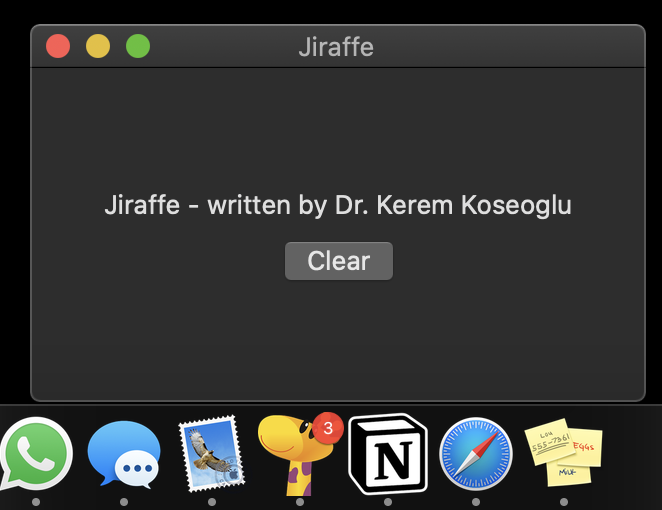
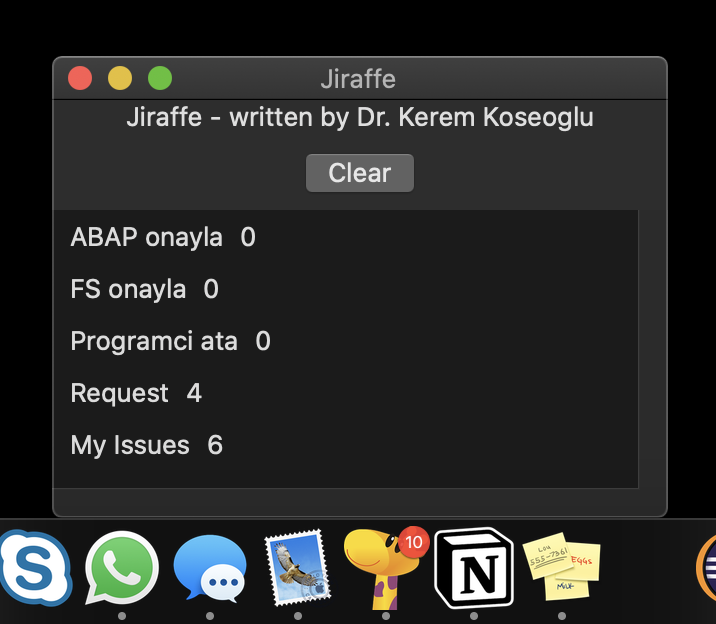
Filter list on GUI

Changed region(s): [[0.0, 0.0294, 1.0, 1.0], [0.423, 0.4706, 0.6042, 0.5588], [0.423, 0.2353, 0.6042, 0.3235]]

diff --git a/Jiraffe/JiraReader.swift b/Jiraffe/JiraReader.swift
@@ -18,7 +18,7 @@ struct Reply: Decodable {
     var issues: [Issue]
 }
 
-struct Filter: Decodable {
+struct Filter: Decodable{
     var name: String
     var url: String
     var replied: Bool
@@ -36,13 +36,15 @@ class JiraReader {
     private var KUTAPADA_CONFIG = "/Users/Kerem/Dropbox/Apps/kutapada/kutapada.json"
     private var KUTAPADA_KEY = "Ecz - Jira"
     private var JIRAFFE_CONFIG = "/Users/Kerem/Documents/etc/config/jiraffe.json"
-    private var filters = Filters(filters: [])
     private var jiraUser = ""
     private var jiraPass = ""
     private var app: NSApplication
+    private var filters = Filters(filters: [])
+    private var filterOutput: FilterOutputModel
     
-    init(app: NSApplication) {
+    init(app: NSApplication, filterOutput: FilterOutputModel) {
         self.app = app
+        self.filterOutput = filterOutput
         readJiraffeConfig()
         readKutapadaConfig()
     }
@@ -51,6 +53,11 @@ class JiraReader {
         do {
             let jsonData = try String(contentsOfFile: JIRAFFE_CONFIG).data(using: .utf8)
             self.filters = try JSONDecoder().decode(Filters.self, from: jsonData!)
+            
+            for filter in self.filters.filters {
+                let filterOutput = FilterOutput(name: filter.name, total: 0)
+                self.filterOutput.append(item:filterOutput)
+            }
         } catch {print(error)}
     }
     
@@ -107,12 +114,17 @@ class JiraReader {
     }
     
     func evaluateJiraReply(filter: Filter, reply: Reply) {
+        var thisItemCount = 0
+        
         for curIssue in reply.issues {
             var found = false
             for prevIssue in filter.prevReply.issues {
                 if prevIssue.id == curIssue.id {found=true}
             }
-            if !found {newItemCount += 1}
+            if !found {
+                newItemCount += 1
+                thisItemCount += 1
+            }
         }
         
         for i in 0..<filters.filters.count {
@@ -122,6 +134,7 @@ class JiraReader {
             }
         }
         
+        self.filterOutput.update(name: filter.name, total: thisItemCount)
         jiraReplyEvaluationCompleted()
     }
     
@@ -129,6 +142,7 @@ class JiraReader {
         for filter in filters.filters {
             if !filter.replied {return}
         }
+        
         if newItemCount > 1 {
             self.app.dockTile.badgeLabel = String(self.newItemCount)
         } else {

diff --git a/Jiraffe/ContentView.swift b/Jiraffe/ContentView.swift
@@ -8,20 +8,62 @@
 
 import SwiftUI
 
+struct FilterOutput: Identifiable {
+    var id = UUID()
+    var name: String
+    var total: Int
+}
+
+class FilterOutputModel: ObservableObject {
+    @Published var items = [FilterOutput]()
+    
+    public func append(item:FilterOutput) {
+        items.append(item)
+    }
+    
+    public func update(name:String, total:Int) {
+        for i in 0..<items.count {
+            if items[i].name == name {
+                items[i].id = UUID()
+                items[i].total = total
+                return
+            }
+        }
+    }
+    
+    public func reset() {
+        for item in items {
+            update(name: item.name, total: 0)
+        }
+    }
+}
+
 struct ContentView: View {
     public var model: Model
+    @ObservedObject var filterOutput = FilterOutputModel()
     
     var body: some View {
         VStack {
             Text("Jiraffe - written by Dr. Kerem Koseoglu")
-                
+            
             Button(action: {
                 self.model.reader.newItemCount = 0
                 NSApp.dockTile.badgeLabel = ""
+                self.filterOutput.reset()
                 self.model.reader.openJira()
             }) {
                 Text("Clear")
             }
+            
+            List() {
+                ForEach (filterOutput.items) { item in
+                    HStack {
+                        Text(item.name)
+                        Text(String(item.total))
+                    }
+                }
+            }
+                
         }.frame(maxWidth: .infinity, maxHeight: .infinity)
     }
 }

diff --git a/Jiraffe/AppDelegate.swift b/Jiraffe/AppDelegate.swift
@@ -14,10 +14,12 @@ class AppDelegate: NSObject, NSApplicationDelegate {
 
     var window: NSWindow!
     var model: Model!
+    var filterOutput: FilterOutputModel!
 
     func applicationDidFinishLaunching(_ aNotification: Notification) {
-        model = Model(app:NSApp)
-        let contentView = ContentView(model:model)
+        filterOutput = FilterOutputModel()
+        model = Model(app: NSApp, filterOutput: filterOutput)
+        let contentView = ContentView(model:model, filterOutput: filterOutput)
         model.schedule()
         
         window = NSWindow(

diff --git a/Jiraffe/Model.swift b/Jiraffe/Model.swift
@@ -12,8 +12,8 @@ import Cocoa
 class Model {
     public var reader: JiraReader
     
-    init(app:NSApplication) {
-        self.reader = JiraReader(app:app)
+    init(app:NSApplication, filterOutput:FilterOutputModel) {
+        self.reader = JiraReader(app:app, filterOutput:filterOutput)
     }
 
     func schedule() {
